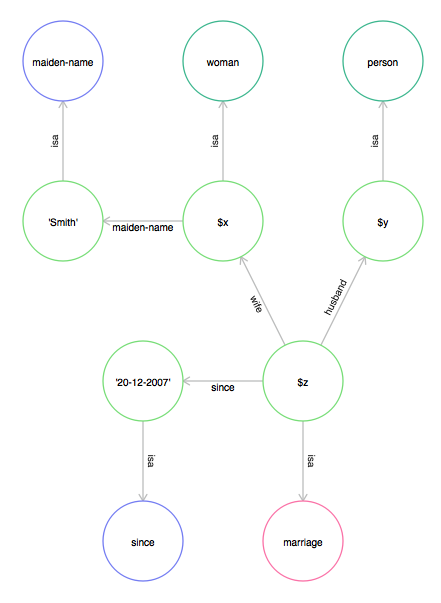
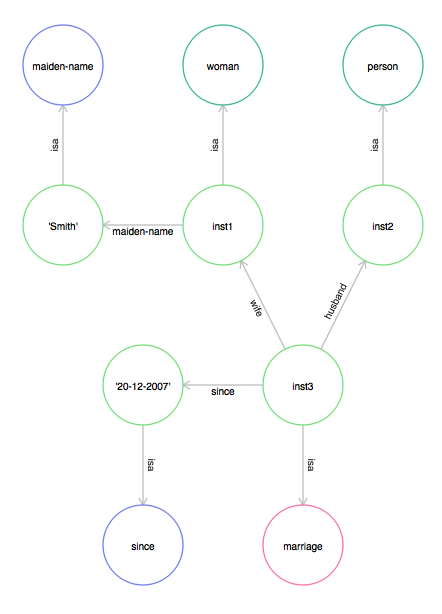
Updating website with new figure and modifications to knowledge model document only.

diff --git a/public/pages/documentation/the-basics/grakn-knowledge-model.html b/public/pages/documentation/the-basics/grakn-knowledge-model.html
@@ -686,7 +686,7 @@ $('#toc').on('click', 'a', function() {
 
 <h2 id="ontology">Ontology</h2>
 
-<p>The ontology is a formal specification of all the relevant concepts and their meaningful associations in a given application domain. It allows objects and relationships to be categorised into distinct types, and for generic properties about those types to be expressed. Specifying the ontology enables logical reasoning over the represented knowledge, such as the extraction of implicit information from explicit data (inference) or discovery of inconsistencies in the data (validation).</p>
+<p>The ontology is a formal specification of all the relevant concepts and their meaningful associations in a given application domain. It allows objects and relationships to be categorised into distinct types, and for generic properties about those types to be expressed. Specifying the ontology enables automated reasoning over the represented knowledge, such as the extraction of implicit information from explicit data (inference) or discovery of inconsistencies in the data (validation).</p>
 
 <p>Grakn ontologies use four types of <code class="highlighter-rouge">concepts</code> for modeling domain knowledge:</p>
 
@@ -770,7 +770,7 @@ $('#toc').on('click', 'a', function() {
 <p><em>Figure 1: The concept types and their permitted associations via Grakn ontology constructs.</em></p>
 
 <!-- This section may possibly be better if moved into a different, more low level page -->
-<p>A well-formed Grakn ontology is required to satisfy the following structural properties (for examples see the following section):</p>
+<p>A well-formed Grakn ontology is required to satisfy the following structural properties (see examples in the following section):</p>
 
 <ul>
   <li>each concept type can have at most one direct supertype,</li>
@@ -783,7 +783,7 @@ $('#toc').on('click', 'a', function() {
 
 <p>As in object-oriented programming, the inheritance mechanism in Grakn enables subtypes to automatically take on some of the properties of their supertypes. This simplifies the construction of ontologies and helps keep them succinct. The Grakn knowledge model imposes inheritance of all <code class="highlighter-rouge">has-resource</code> and <code class="highlighter-rouge">plays-role</code> constraints on entity, relation and resource types.</p>
 
-<p>For example, in Figure 2, the entity types <code class="highlighter-rouge">woman</code> and <code class="highlighter-rouge">man</code> inherit the constraints <code class="highlighter-rouge">has-resource name</code>, <code class="highlighter-rouge">plays-role partner1</code>, <code class="highlighter-rouge">plays-role partner2</code> from their supertype <code class="highlighter-rouge">person</code>. Similarly, the relation type <code class="highlighter-rouge">marriage</code> inherits the constraint <code class="highlighter-rouge">has-resource since</code> from <code class="highlighter-rouge">partnership</code>.</p>
+<p>For example, in the ontology depicted in Figure 2, the entity types <code class="highlighter-rouge">woman</code> and <code class="highlighter-rouge">man</code> inherit the constraints <code class="highlighter-rouge">has-resource name</code>, <code class="highlighter-rouge">plays-role partner1</code>, <code class="highlighter-rouge">plays-role partner2</code> from their supertype <code class="highlighter-rouge">person</code>. Similarly, the relation type <code class="highlighter-rouge">marriage</code> inherits the constraint <code class="highlighter-rouge">has-resource since</code> from <code class="highlighter-rouge">partnership</code>.</p>
 
 <p><img src="/images/knowledge-model-fig2.png" alt="A sample of a Grakn ontology." /></p>
 
@@ -814,12 +814,12 @@ $('#toc').on('click', 'a', function() {
   <li><code class="highlighter-rouge">woman plays-role wife</code></li>
   <li><code class="highlighter-rouge">man sub person</code></li>
   <li><code class="highlighter-rouge">man plays-role husband</code></li>
-  <li><code class="highlighter-rouge">marriage sub partnership</code></li>
   <li><code class="highlighter-rouge">wife sub partner1</code></li>
   <li><code class="highlighter-rouge">husband sub partner2</code></li>
   <li><code class="highlighter-rouge">partnership has-resource since</code></li>
   <li><code class="highlighter-rouge">partnership has-role partner1</code></li>
   <li><code class="highlighter-rouge">partnership has-role partner2</code></li>
+  <li><code class="highlighter-rouge">marriage sub partnership</code></li>
   <li><code class="highlighter-rouge">marriage has-role wife</code></li>
   <li><code class="highlighter-rouge">marriage has-role husband</code></li>
 </ul>
@@ -856,7 +856,7 @@ $('#toc').on('click', 'a', function() {
 
 <h3 id="validation">Validation</h3>
 
-<p>To ensure data is correctly structured (i.e. consistent) with respect to the ontology, all data instances are validated against the ontology constraints. All the explicitly represented ontology constraints, together with the inherited ones, form complete schema templates for particular concept types, which guide the validation and, consequently, the data entry process. For example, the ontology in Figure 2, establishes the following schema templates for the concept types <code class="highlighter-rouge">woman</code> and <code class="highlighter-rouge">marriage</code>:</p>
+<p>To ensure data is correctly structured (i.e. consistent) with respect to the ontology, all data instances are validated against the ontology constraints. All the explicitly represented ontology constraints, together with the inherited ones, form complete schema templates for particular concept types, which guide the validation and, consequently, the data entry process. For example, the ontology in Figure 2 establishes the following schema templates for the concept types <code class="highlighter-rouge">woman</code> and <code class="highlighter-rouge">marriage</code>:</p>
 
 <h4 id="woman"><code class="highlighter-rouge">woman</code></h4>
 
@@ -875,20 +875,20 @@ $('#toc').on('click', 'a', function() {
   <li><code class="highlighter-rouge">has-role husband</code></li>
 </ul>
 
-<p>A data instance <code class="highlighter-rouge">$x</code> of a concept type <code class="highlighter-rouge">C</code> is valid, whenever the following conditions are satisfied:</p>
+<p>A data instance <code class="highlighter-rouge">inst</code> of a concept type <code class="highlighter-rouge">C</code> is valid, whenever the following conditions are satisfied:</p>
 
 <ul>
-  <li><code class="highlighter-rouge">$x</code> instantiates only <code class="highlighter-rouge">C</code> (and indirectly all supertypes of <code class="highlighter-rouge">C</code>),</li>
-  <li>all types of resources associated with <code class="highlighter-rouge">$x</code> belong to the schema template of <code class="highlighter-rouge">C</code>,</li>
-  <li>for every role type <code class="highlighter-rouge">R</code> that <code class="highlighter-rouge">$x</code> plays in any relation instance in the data, there is a constraint <code class="highlighter-rouge">plays-role R</code> in the schema template of <code class="highlighter-rouge">C</code>,</li>
-  <li>whenever <code class="highlighter-rouge">$x</code> is a relation instance involving the role type <code class="highlighter-rouge">R</code> there is a constraint <code class="highlighter-rouge">has-role R</code> in the schema template of <code class="highlighter-rouge">C</code>.</li>
+  <li><code class="highlighter-rouge">inst</code> instantiates only <code class="highlighter-rouge">C</code> (called the base type of <code class="highlighter-rouge">inst</code>) and indirectly all supertypes of <code class="highlighter-rouge">C</code>,</li>
+  <li>all types of resources associated with <code class="highlighter-rouge">inst</code> belong to the schema template of <code class="highlighter-rouge">C</code>,</li>
+  <li>for every role type <code class="highlighter-rouge">R</code> that <code class="highlighter-rouge">inst</code> plays in any relation instance in the data, there is a constraint <code class="highlighter-rouge">plays-role R</code> in the schema template of <code class="highlighter-rouge">C</code>,</li>
+  <li>whenever <code class="highlighter-rouge">inst</code> is a relation instance involving the role type <code class="highlighter-rouge">R</code> there is a constraint <code class="highlighter-rouge">has-role R</code> in the schema template of <code class="highlighter-rouge">C</code>.</li>
 </ul>
 
 <p>For example, data illustrated in Figure 3 violates the ontology from Figure 2, by:</p>
 
 <ol>
-  <li>associating a resource of type <code class="highlighter-rouge">maiden name</code> with an instance of the type <code class="highlighter-rouge">woman</code> (which is not allowed in the ontology).</li>
-  <li>by using an instance of the base type <code class="highlighter-rouge">person</code> in the <code class="highlighter-rouge">wife</code> role (while only those of type <code class="highlighter-rouge">woman</code> are accepted by the ontology).</li>
+  <li>associating a resource <code class="highlighter-rouge">'Smith'</code> of type <code class="highlighter-rouge">maiden-name</code> with an instance <code class="highlighter-rouge">inst1</code> of the base type <code class="highlighter-rouge">woman</code> (which is not allowed in the ontology).</li>
+  <li>by using an instance <code class="highlighter-rouge">inst2</code> of the base type <code class="highlighter-rouge">person</code> in the <code class="highlighter-rouge">husband</code> role (while only those of type <code class="highlighter-rouge">man</code> are accepted by the ontology).</li>
 </ol>
 
 <p><img src="/images/knowledge-model-fig3.png" alt="Validation of data against the ontology." /></p>
@@ -897,17 +897,19 @@ $('#toc').on('click', 'a', function() {
 
 <h2 id="rule-and-sub-type-inference">Rule and Sub-Type Inference</h2>
 
-<p>Inference is a process of extracting implicit information from explicit data instances. Grakn supports two inference mechanisms:</p>
+<p>Inference is a process of extracting implicit information from explicit data. Grakn supports two inference mechanisms:</p>
 
 <ol>
   <li>type inference, based on the semantics of the <code class="highlighter-rouge">sub</code> hierarchies included in the ontology</li>
   <li>rule-based inference involving user-defined IF-THEN rules.</li>
 </ol>
 
-<p>Both mechanisms are employed by default when querying the knowledge graph with Graql, thus supporting retrieval of both explicit and implicit information at query time.</p>
+<p>Both mechanisms can be employed when querying the knowledge graph with Graql, thus supporting retrieval of both explicit and implicit information at query time.</p>
 
 <h3 id="type-inference">Type Inference</h3>
-<p>The type inference is based on a simple graph traversal along the <code class="highlighter-rouge">sub</code> edges. Every instance of a given concept type is automatically classified as an instance of all (possibly indirect) supertypes of that type. In case of roles, every instance playing a given role is inferred to also play all its (possibly indirect) super-roles.</p>
+<p>The type inference is based on a simple graph traversal along the <code class="highlighter-rouge">sub</code> edges. Every instance of a given concept type is automatically classified as an (indirect) instance of all (possibly indirect) supertypes of that type. For example, whenever <code class="highlighter-rouge">woman sub person</code> is in the ontology, every instance of <code class="highlighter-rouge">woman</code> will be retrieved on the query <code class="highlighter-rouge">match $x isa person</code>. In case of roles, every instance playing a given role is inferred to also play all its (possibly indirect) super-roles. For example, whenever <code class="highlighter-rouge">inst</code> plays the role of wife in a relation of the type <code class="highlighter-rouge">marriage</code>, the system will infer that <code class="highlighter-rouge">inst</code> plays also the role of <code class="highlighter-rouge">partner1</code> in that relation, given the ontology from Figure 2.</p>
+
+<p>The type inference is set ON by default when querying Grakn.</p>
 
 <h3 id="rule-based-inference">Rule-Based Inference</h3>
 <p>The rule-based inference exploits a set of user-defined datalog rules and is conducted by means of the  reasoner built naitively into Grakn. Every rule is declared as an instance of a built-in Grakn type <code class="highlighter-rouge">inference-rule</code>.</p>
@@ -922,9 +924,9 @@ rhs
 </code></pre>
 </div>
 
-<p>The rule above expresses that, whenever instance $x has a mother $y and $y has a brother $z is found, one can infer that $z is an uncle of $x, while $x is a nephew of $z.</p>
+<p>The rule above expresses that, whenever instance <code class="highlighter-rouge">inst1</code> has a mother <code class="highlighter-rouge">inst2</code> in the data, and <code class="highlighter-rouge">inst2</code> has a brother <code class="highlighter-rouge">inst3</code>, one can infer that <code class="highlighter-rouge">inst3</code> is an uncle of <code class="highlighter-rouge">inst1</code>, while <code class="highlighter-rouge">inst1</code> is a nephew of <code class="highlighter-rouge">inst3</code>.</p>
 
-<p>For more detailed documentation on rules see <a href="../graql/graql-rules.html">Graql Rules</a>.</p>
+<p>The rule-based inference is set OFF by default when querying Grakn, and can be activated on request. For more detailed documentation on rules see <a href="../graql/graql-rules.html">Graql Rules</a>.</p>
 
 <h2 id="where-next">Where Next?</h2>
 <p>Our <a href="../the-basics/quickstart-tutorial.html">Quickstart Tutorial</a> will show you how to load an ontology, rules and data into Grakn using Graql, and to make basic queries.</p>
